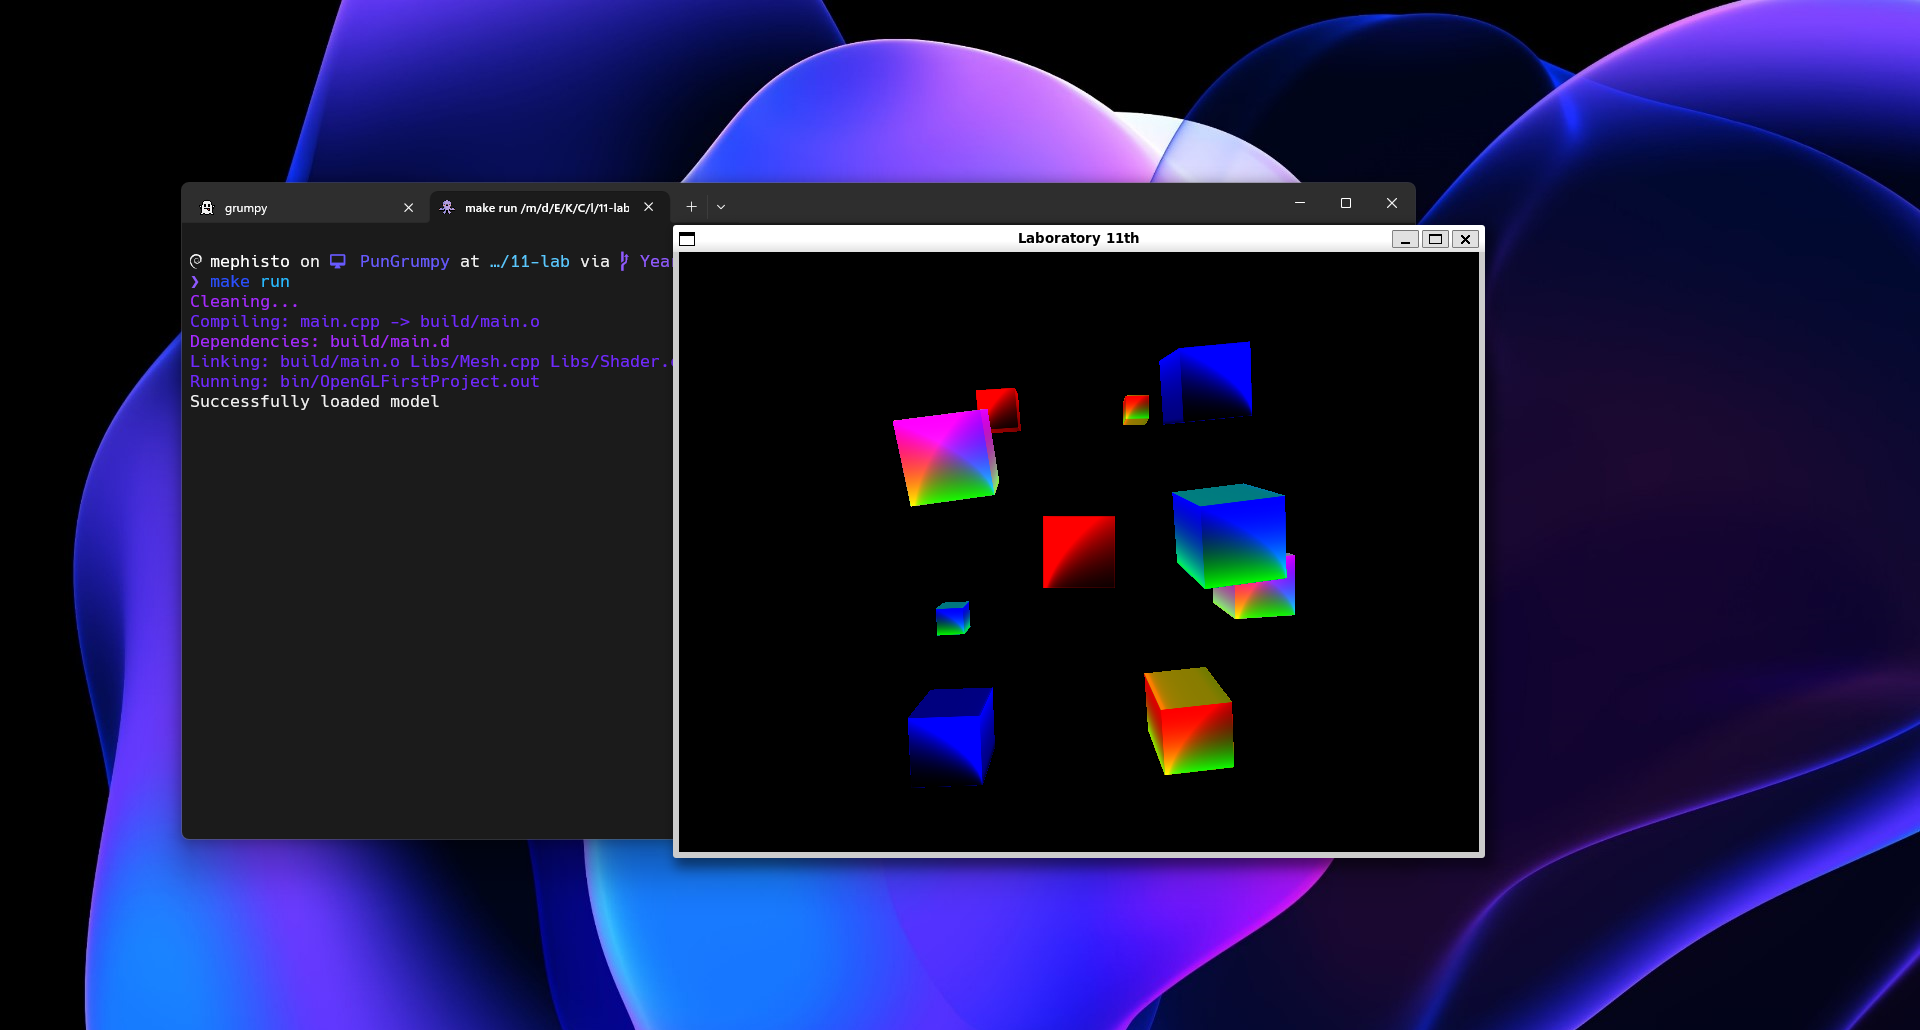
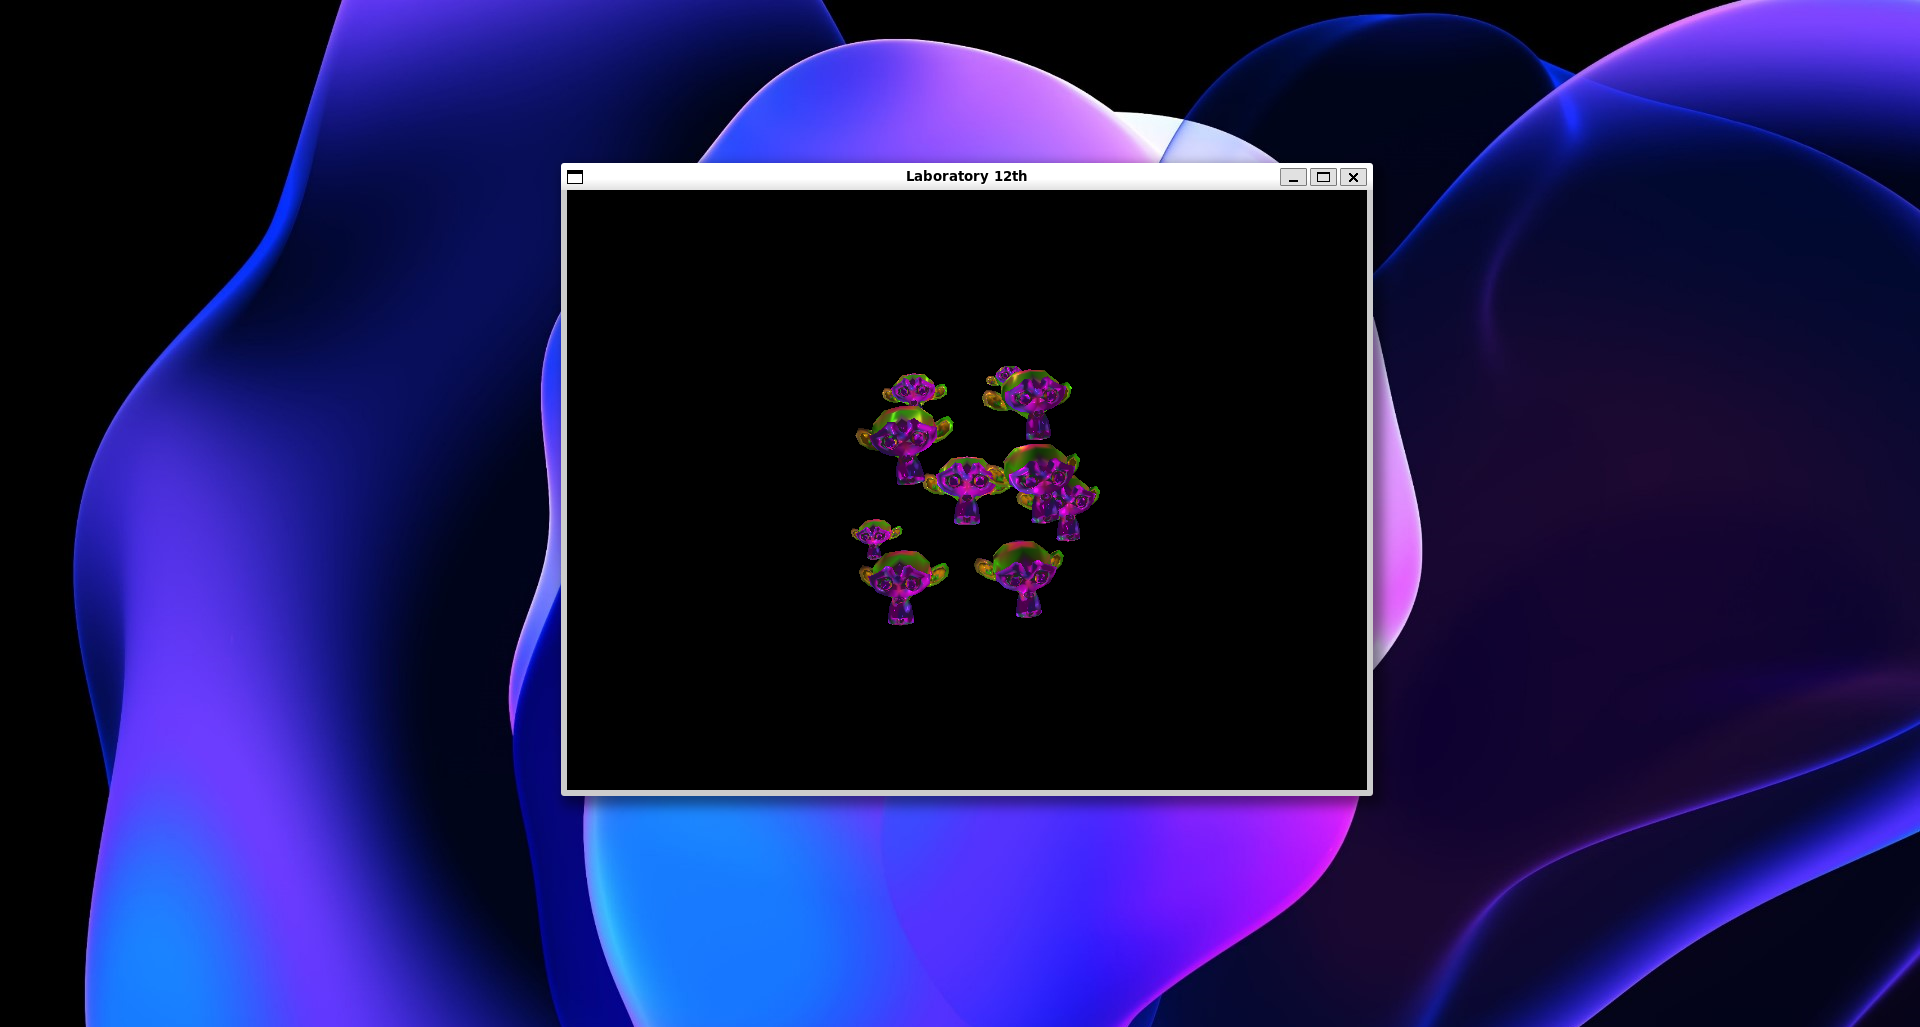
✨ feat(cg): add lab 12

diff --git a/Computer Graphic/lab/12-lab/main.cpp b/Computer Graphic/lab/12-lab/main.cpp
@@ -18,7 +18,6 @@ const GLint WIDTH = 800, HEIGHT = 600;
 const char *vShader = "Shaders/shader.vert";
 const char *fShader = "Shaders/shader.frag";
 const char *TextureFile = "Textures/uvmap.png";
-const char *ModelFile = "Models/cube.obj";
 
 Window mainWindow;
 std::vector<Mesh *> meshList;
@@ -41,7 +40,7 @@ void CreateTriangle() {
   }
 }
 
-void CreateObjects() {
+void CreateObjects(const char *ModelFile = "Models/suzanne.obj") {
   Mesh *obj1 = new Mesh();
   bool loaded = obj1->CreateMeshFromOBJ(ModelFile);
 
@@ -56,19 +55,20 @@ void CreateObjects() {
   }
 }
 
-void CreateShaders() {
+void CreateShaders(const char *vShader = "Shaders/shader.vert",
+                   const char *fShader = "Shaders/shader.frag") {
   Shader *shader1 = new Shader();
   shader1->CreateFromFiles(vShader, fShader);
   shaderList.push_back(*shader1);
 }
 
 int main() {
-  mainWindow = Window(WIDTH, HEIGHT, 3, 3, "Laboratory 11th");
+  mainWindow = Window(WIDTH, HEIGHT, 3, 3, "Laboratory 12th");
   mainWindow.initialise();
 
   // CreateTriangle();
-  CreateObjects();
-  CreateShaders();
+  CreateObjects("Models/suzanne.obj");
+  CreateShaders("Shaders/shader.vert", "Shaders/shader.frag");
 
   unsigned int texture;
   glGenTextures(1, &texture);
@@ -107,6 +107,7 @@ int main() {
 
   // Loop until window closed
   while (!mainWindow.getShouldClose()) {
+
     // Get + Handle user input events
     glfwPollEvents();
 
@@ -128,12 +129,15 @@ int main() {
     glm::vec3 blueLight(0.0f, 0.0f, 1.0f);
     glm::vec3 cyanLight(0.0f, 1.0f, 1.0f);
     glm::vec3 whiteLight(1.0f, 1.0f, 1.0f);
-    glm::vec3 lightColor[] = {redLight, yellowLight, blueLight, cyanLight,
-                              whiteLight};
+    glm::vec3 lightColor[] = {whiteLight, redLight, yellowLight, blueLight,
+                              cyanLight};
 
     // Ambient light
-    glm::int16 ambientStrengthPercent = 100;
+    glm::int16 ambientStrengthPercent = 30;
     glm::float32 ambientStrength = ambientStrengthPercent / 100.0f;
+
+    // Light movement
+    glm::vec3 lightPos = glm::vec3(5.0f, 5.0f, 0.0f);
 
     glm::vec3 pyramidPositions[] = {
         glm::vec3(0.0f, 0.0f, -2.5f),   glm::vec3(2.0f, 5.0f, -15.0f),
@@ -188,9 +192,13 @@ int main() {
 
       // Light;
       glUniform3fv(shaderList[0].GetUniformLocation("lightColour"), 1,
-                   glm::value_ptr(lightColor[i % 5]));
+                   glm::value_ptr(lightColor[0])); // Light color
       glUniform1f(shaderList[0].GetUniformLocation("ambientStrength"),
-                  ambientStrength);
+                  ambientStrength); // Ambient light
+      glUniform3fv(shaderList[0].GetUniformLocation("lightPos"), 1,
+                   glm::value_ptr(lightPos)); // Diffuse light
+      glUniform3fv(shaderList[0].GetUniformLocation("viewPos"), 1,
+                   glm::value_ptr(cameraPosition)); // Specular light
 
       meshList[i]->RenderMesh();
     }

diff --git a/Computer Graphic/lab/12-lab/Libs/Mesh.cpp b/Computer Graphic/lab/12-lab/Libs/Mesh.cpp
@@ -199,7 +199,7 @@ bool Mesh::CreateMeshFromOBJ(const char *path) {
   glBindBuffer(GL_ARRAY_BUFFER, normalBuffer);
   glBufferData(GL_ARRAY_BUFFER, normals.size() * sizeof(glm::vec3), &normals[0],
                GL_STATIC_DRAW);
-  // glEnableVertexAttribArray(2);
+  glEnableVertexAttribArray(2); // Create the VBO for normals
   glVertexAttribPointer(2, 3, GL_FLOAT, GL_FALSE, sizeof(glm::vec3), (void *)0);
 
   // Create the IBO
